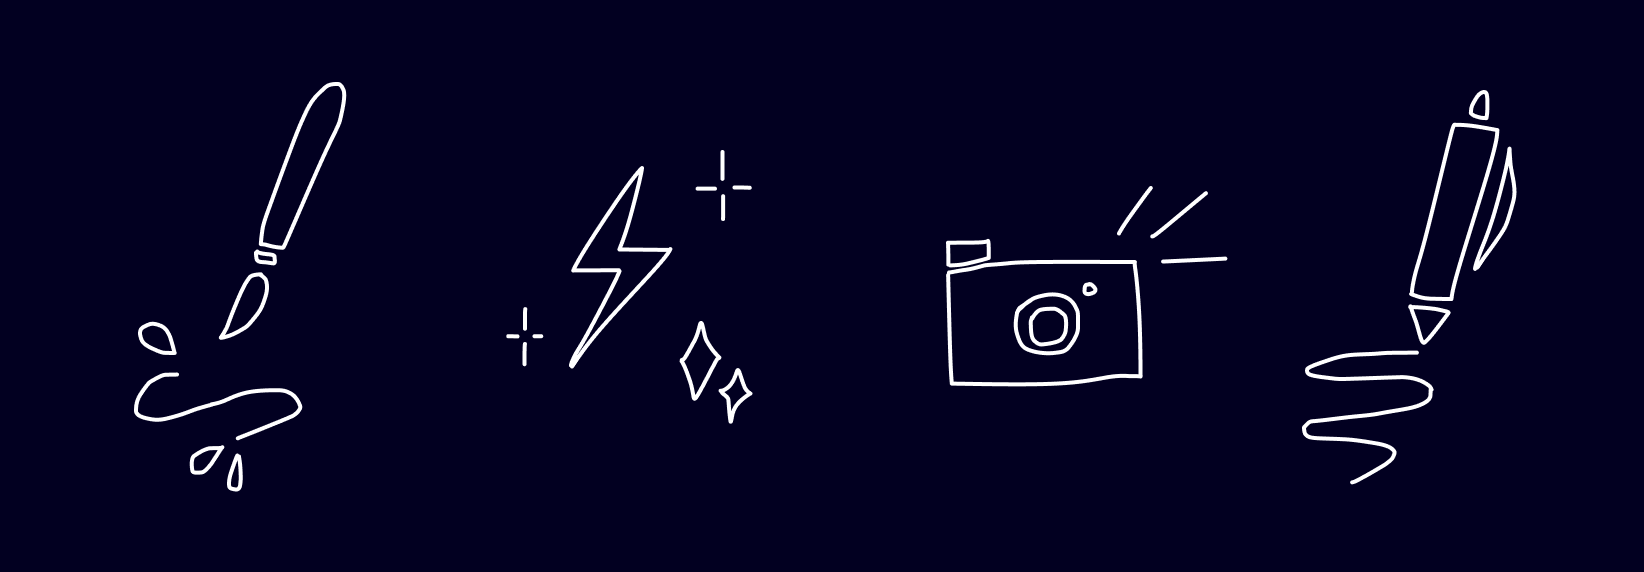
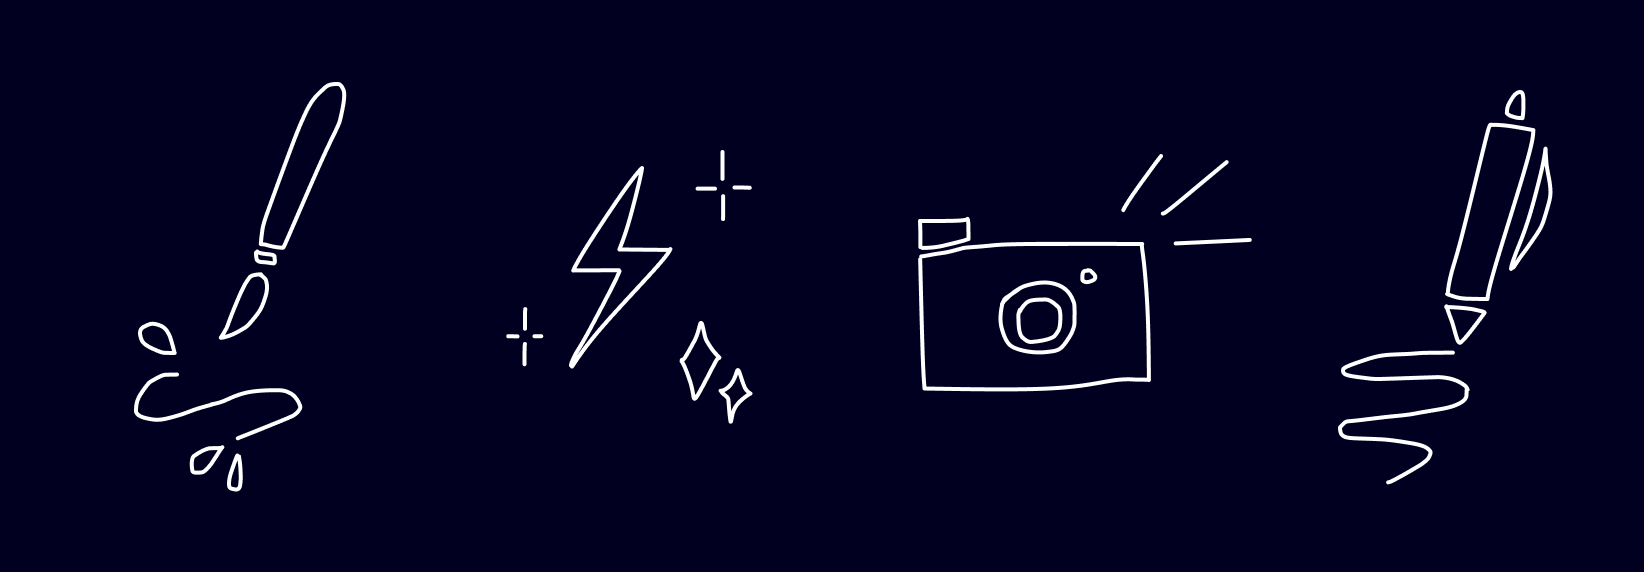
updated assets section to include interactive slider between sketches and refined assets

Changed region(s): [[0.5584, 0.2675, 0.7755, 0.6836], [0.7755, 0.1486, 0.9617, 0.8322]]

diff --git a/SPONSA Case Study.dc.html b/SPONSA Case Study.dc.html
@@ -249,12 +249,14 @@
           </div>
           <p style="margin:0 0 20px;color:#4d4a44;font-size:17px;line-height:1.5;max-width:840px;">The user interviews and mind map indicate that SPONSA&rsquo;s brand personality can be visually expressed through custom assets that represent creators across various fields.</p>
 
-          <div style="display:grid;grid-template-columns:1fr 1fr;gap:20px;">
-            <div style="border:1px solid #ece6db;border-radius:14px;overflow:hidden;background:#faf9fc;">
-              <img src="uploads/Graphics%201.png" alt="Custom SPONSA brand graphic exploration 1" style="display:block;width:100%;height:auto;" />
-            </div>
-            <div style="border:1px solid #ece6db;border-radius:14px;overflow:hidden;background:#faf9fc;">
-              <img src="uploads/Graphics%202.png" alt="Custom SPONSA brand graphic exploration 2" style="display:block;width:100%;height:auto;" />
+          <div data-compare-slider style="position:relative;aspect-ratio:1644/572;border:1px solid #ece6db;border-radius:14px;overflow:hidden;background:#faf9fc;cursor:ew-resize;touch-action:none;">
+            <img src="uploads/Graphics%202.png" alt="Custom SPONSA brand graphic exploration 2" style="position:absolute;inset:0;width:100%;height:100%;object-fit:cover;display:block;pointer-events:none;" />
+            <img data-compare-overlay src="uploads/Graphics%201.png" alt="Custom SPONSA brand graphic exploration 1" style="position:absolute;inset:0;width:100%;height:100%;object-fit:cover;display:block;pointer-events:none;clip-path:inset(0 50% 0 0);" />
+            <div data-compare-handle style="position:absolute;top:0;bottom:0;left:50%;width:0;transform:translateX(-50%);pointer-events:none;">
+              <div style="position:absolute;top:0;bottom:0;left:50%;width:2px;background:#ffffff;transform:translateX(-50%);box-shadow:0 0 0 1px rgba(0,0,0,0.12);"></div>
+              <div style="position:absolute;top:50%;left:50%;transform:translate(-50%,-50%);width:40px;height:40px;border-radius:50%;background:#ffffff;box-shadow:0 4px 14px rgba(0,0,0,0.25);display:flex;align-items:center;justify-content:center;">
+                <i data-lucide="chevrons-left-right" style="width:19px;height:19px;color:#4d4a44;"></i>
+              </div>
             </div>
           </div>
 
@@ -286,7 +288,7 @@
         <div id="wireframes" style="scroll-margin-top:28px;margin-top:34px;">
           <div style="display:flex;align-items:baseline;gap:12px;margin-bottom:18px;">
             <span style="color:#b21e4a;font-weight:700;font-size:18px;font-family:'Poppins';">6.3</span>
-            <span style="color:#1a1a1a;font-weight:700;font-size:23px;font-family:'Poppins';letter-spacing:-0.01em;">Exploring Wireframes</span>
+            <span style="color:#1a1a1a;font-weight:700;font-size:23px;font-family:'Poppins';letter-spacing:-0.01em;">Developing Wireframes</span>
           </div>
           <div style="display:grid;grid-template-columns:1fr 1fr;gap:20px;">
             <div style="aspect-ratio:4/3;border:1px dashed #d8cdb8;border-radius:14px;background:#faf9fc;"></div>
@@ -419,6 +421,38 @@ class Component extends DCLogic {
     });
     setTimeout(() => { heroShots.forEach(el => { if (getComputedStyle(el).opacity === '0') { el.getAnimations().forEach(a => { try { a.cancel(); } catch (e) {} }); el.style.opacity = '1'; el.style.transform = 'translateY(0)'; } }); }, 1600);
 
+    const slider = document.querySelector('[data-compare-slider]');
+    if (slider) {
+      const overlay = slider.querySelector('[data-compare-overlay]');
+      const handle = slider.querySelector('[data-compare-handle]');
+      const setPos = (pct) => {
+        const clamped = Math.max(0, Math.min(100, pct));
+        overlay.style.clipPath = 'inset(0 ' + (100 - clamped) + '% 0 0)';
+        handle.style.left = clamped + '%';
+      };
+      let dragging = false;
+      const moveFromEvent = (e) => {
+        const rect = slider.getBoundingClientRect();
+        const x = (e.touches ? e.touches[0].clientX : e.clientX) - rect.left;
+        setPos((x / rect.width) * 100);
+      };
+      const onDown = (e) => { dragging = true; moveFromEvent(e); };
+      const onMove = (e) => { if (dragging) moveFromEvent(e); };
+      const onUp = () => { dragging = false; };
+      slider.addEventListener('mousedown', onDown);
+      slider.addEventListener('touchstart', onDown, { passive: true });
+      window.addEventListener('mousemove', onMove);
+      window.addEventListener('touchmove', onMove, { passive: true });
+      window.addEventListener('mouseup', onUp);
+      window.addEventListener('touchend', onUp);
+      this._sliderCleanup = () => {
+        window.removeEventListener('mousemove', onMove);
+        window.removeEventListener('touchmove', onMove);
+        window.removeEventListener('mouseup', onUp);
+        window.removeEventListener('touchend', onUp);
+      };
+    }
+
     this.obs = new IntersectionObserver((entries) => {
       const visible = entries.filter(e => e.isIntersecting);
       if (visible.length) {
@@ -495,6 +529,7 @@ class Component extends DCLogic {
     if (this._fallbackT) clearTimeout(this._fallbackT);
     if (this.obs) this.obs.disconnect();
     if (this.revObs) this.revObs.disconnect();
+    if (this._sliderCleanup) this._sliderCleanup();
   }
 
   go(id) {
